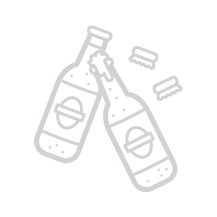
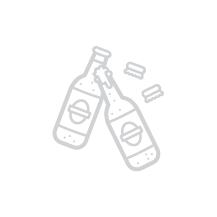
Resized images.

Changed region(s): [[0.1382, 0.1106, 0.8571, 0.8848]]

diff --git a/public/stylesheets/application.css b/public/stylesheets/application.css
@@ -81,7 +81,7 @@ button {
 }
 
 .image-left {
-  padding-left: 25%;
+  padding-left: 35%;
 }
 
 footer {
